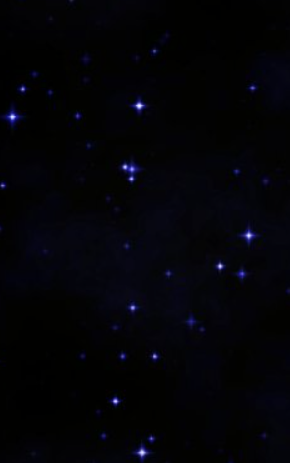
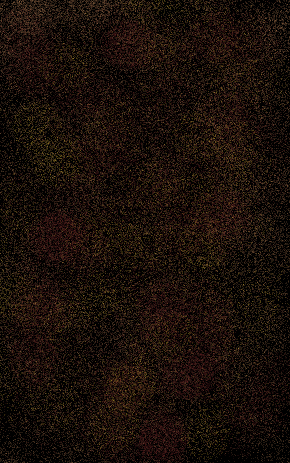
autumn-ified

diff --git a/tic_tac_toe.py b/tic_tac_toe.py
@@ -1,5 +1,5 @@
 from random import randint
-import pygame, sys
+import pygame, sys, subprocess
 
 windowSize = 800
 
@@ -28,7 +28,7 @@ class Tic_tac_toe:
         self.winner = None
     
     def setImages(self):
-        self.board = self.get_scaled_image(path='images/board.jpg', res=[windowSize] * 2)
+        self.board = self.get_scaled_image(path='images/board.png', res=[windowSize] * 2)
         self.x = self.get_scaled_image(path='images/x.png', res=[cell] * 2)
         self.o = self.get_scaled_image(path='images/o.png', res=[cell] * 2)
 
@@ -88,12 +88,16 @@ class Tic_tac_toe:
                 self.game.screen.blit(label, (windowSize // 2 - label.get_width() // 2, windowSize // 4))
                 label2 = self.font.render('Press space to restart', True, 'white', 'black')
                 self.game.screen.blit(label2, (windowSize // 2 - label2.get_width() // 2, windowSize // 2))
+                label3 = self.font.render('Press q to quit', True, 'white', 'gold')
+                self.game.screen.blit(label3, (windowSize // 2 - label2.get_width() // 2, windowSize // 2 +100))
             else:
                 pygame.draw.line(self.game.screen, 'gold', *self.winner_line, cell // 8)
                 label = self.font.render(f'Player "{self.winner}" wins!', True, 'white', 'gold')
                 self.game.screen.blit(label, (windowSize // 3 - label.get_width() // 3, windowSize // 4))
                 label2 = self.font.render('Press space to restart', True, 'white', 'gold')
                 self.game.screen.blit(label2, (windowSize // 2 - label2.get_width() // 2, windowSize // 2))
+                label3 = self.font.render('Press q to quit', True, 'white', 'gold')
+                self.game.screen.blit(label3, (windowSize // 2 - label2.get_width() // 2, windowSize // 2 +100))
         else:
             pass
 
@@ -150,6 +154,9 @@ class FinalGame:
             if e.type == pygame.KEYDOWN:
                 if e.key == pygame.K_SPACE:
                     self.runAgain()
+                if e.key == pygame.K_q:
+                    subprocess.Popen("python intro.py")
+                    pygame.quit()
 
 
     def runAgain(self):

diff --git a/space_invaders.py b/space_invaders.py
@@ -28,6 +28,7 @@ score = 0
 def game(wave):
     global score
     global bullet_state
+    wv=w-4
     player_width = 64
     player_height = 64
     player_x = (screen_width - player_width) // 2
@@ -75,9 +76,11 @@ def game(wave):
     def draw_score():
         score_text = score_font.render("Score: " + str(score), True, (255, 255, 255))
         screen.blit(score_text, (10, 10))
+        wave_text = score_font.render("Wave: " + str(wv), True, (255, 255, 255))
+        screen.blit(wave_text, (10, 40))
 
     right = False
-    left = False
+    left = False  
 
     while running:
         for event in pygame.event.get():
